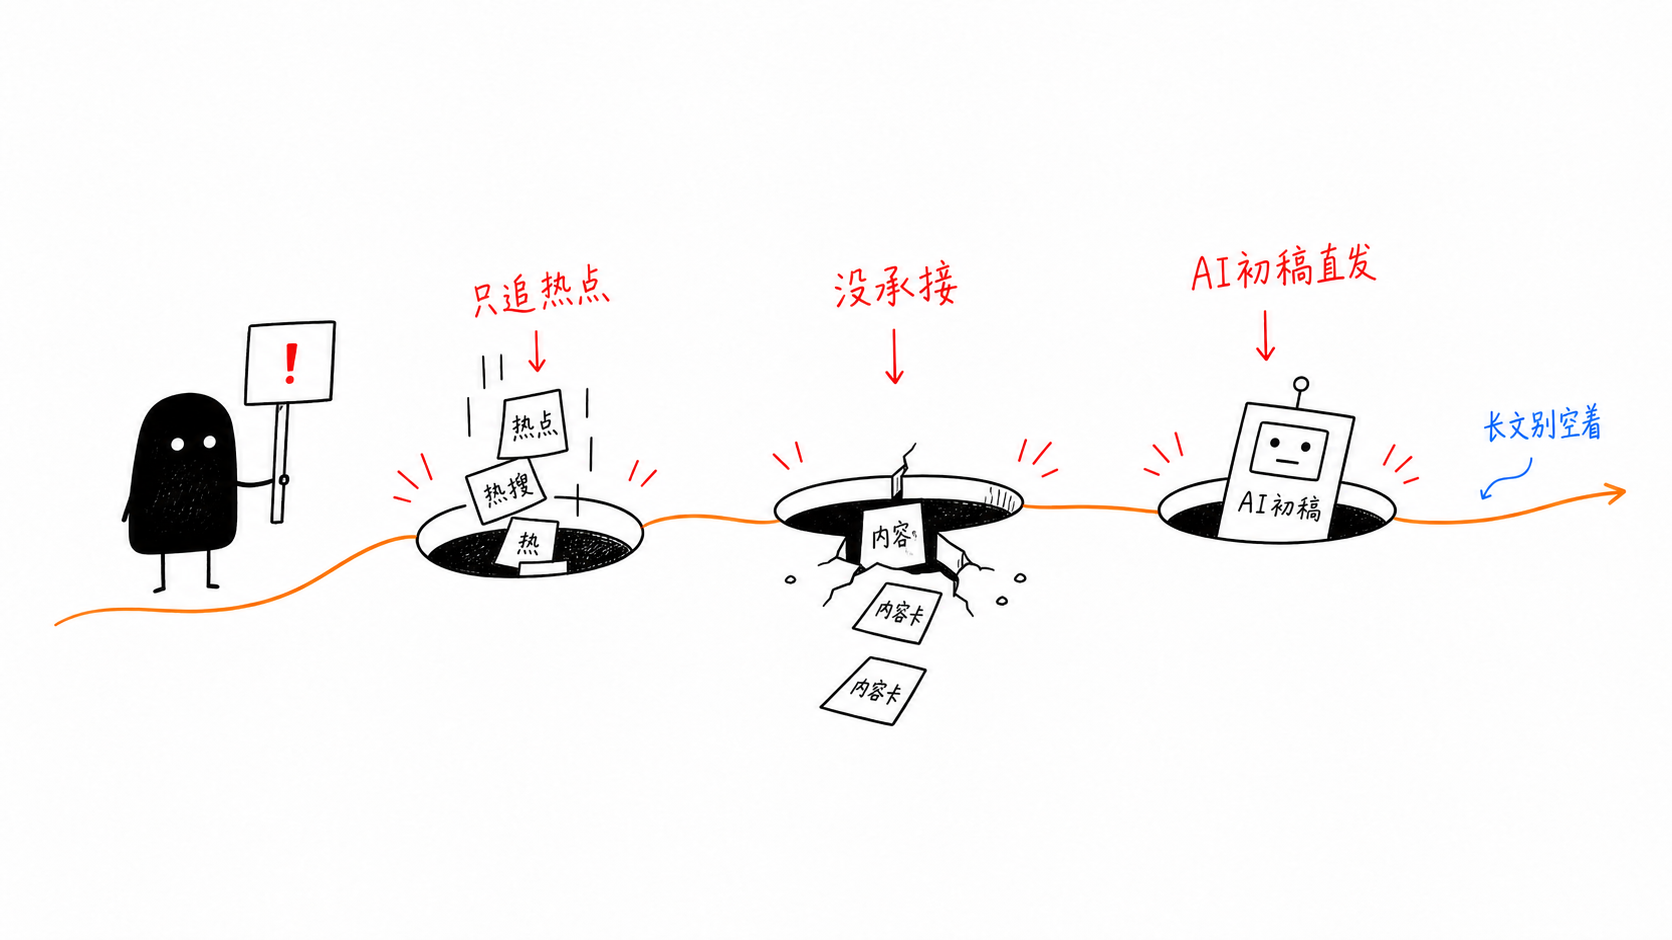
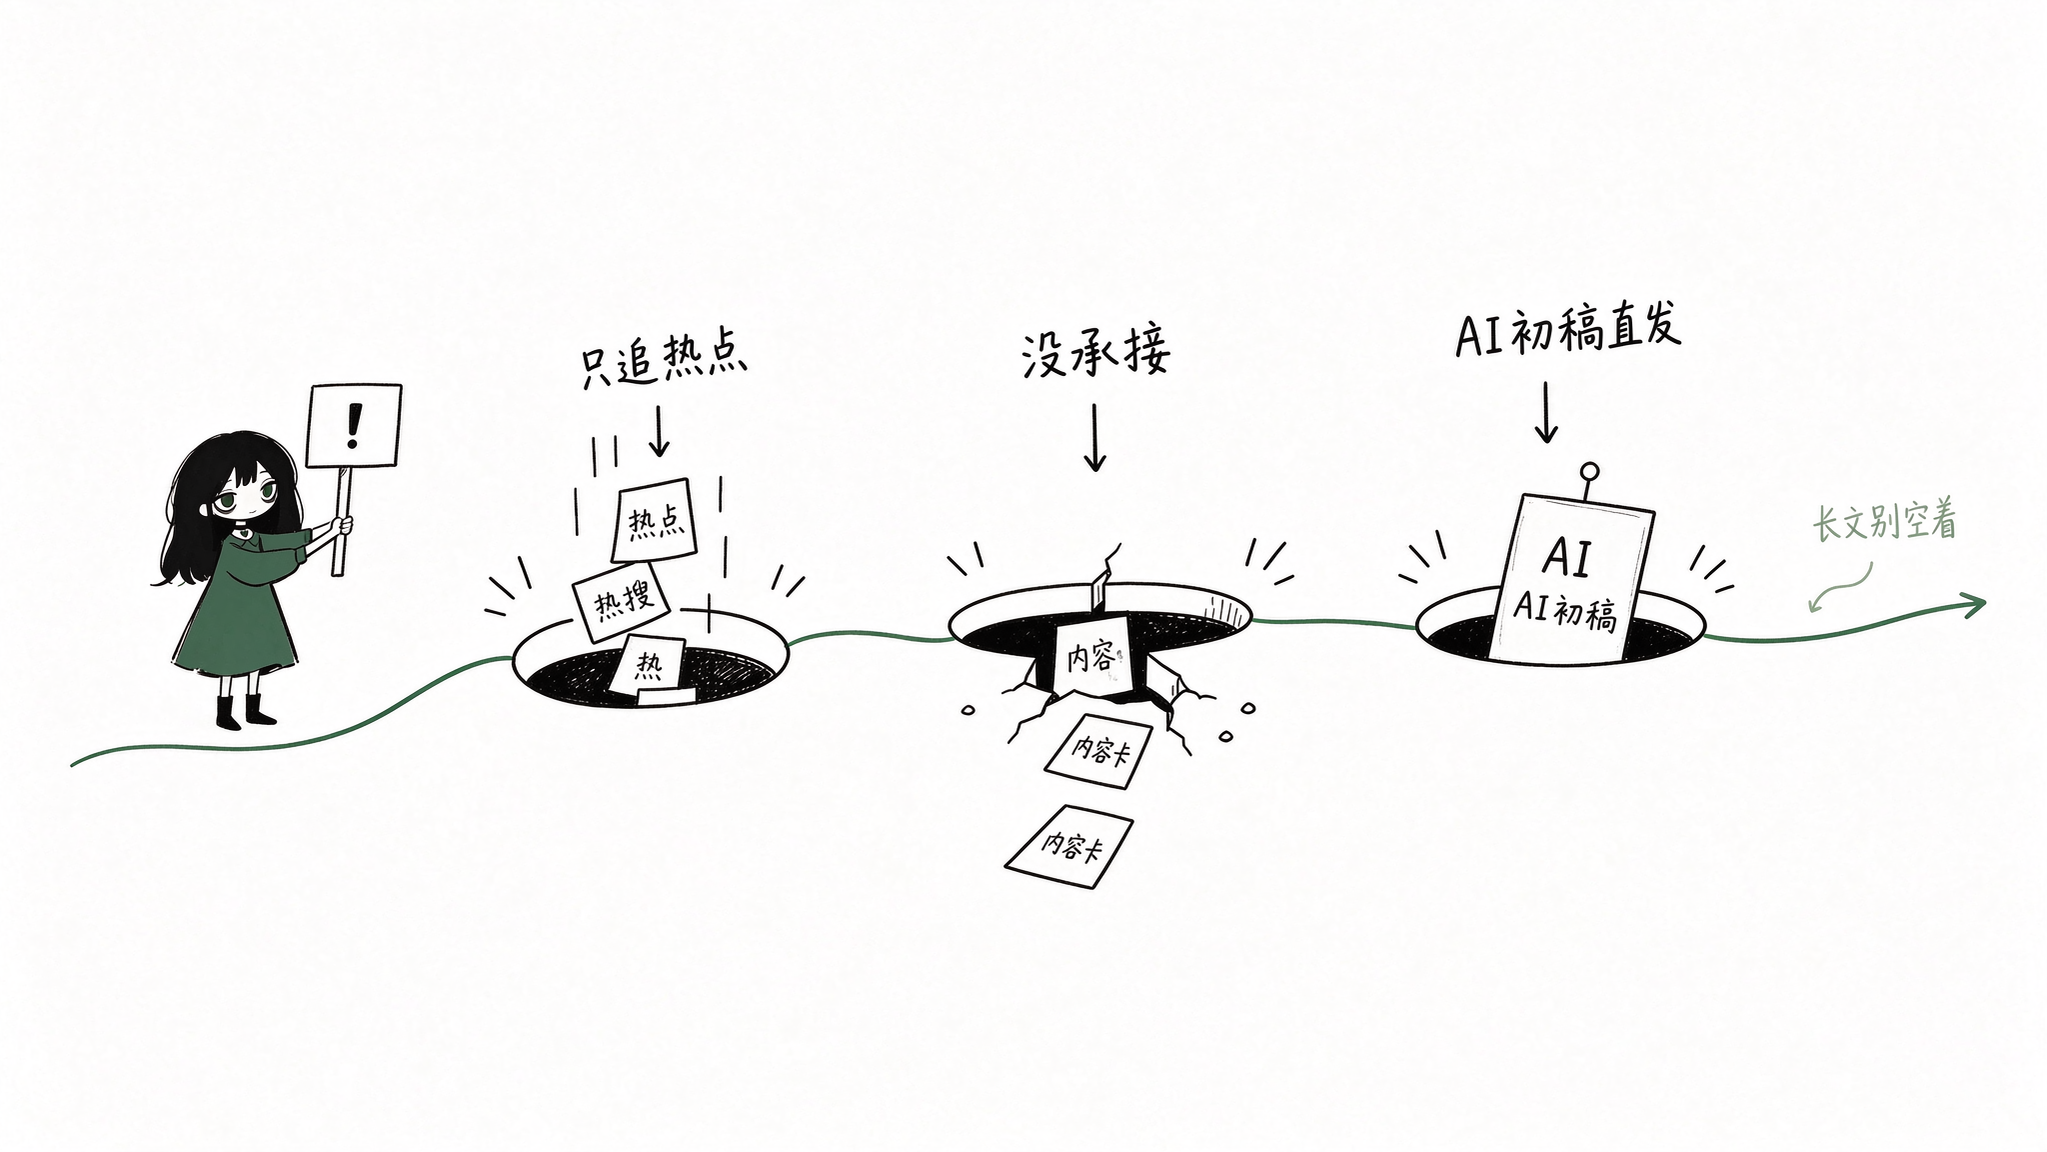
Swap all sample assets to Tuotuo renders; archive legacy Xiaohei examples outside the skill dir

diff --git a/NOTICE.md b/NOTICE.md
@@ -9,7 +9,7 @@ Original project: <https://github.com/helloianneo/ian-xiaohei-illustrations>
 - The skill structure and directory layout
 - The workflow: read the article → pick cognitive anchors → shot list → single-image generation → QA → delivery
 - The reference file system (`style-dna`, `composition-patterns`, `prompt-template`, `qa-checklist`) and most of its wording
-- The bundled example images in `examples/images/` and `tuotuo-illustrations/assets/examples/`, which were generated by Ian
+- The original bundled example images drawn with 小黑, now kept under `legacy/xiaohei-examples/` for reference only and excluded from the installable skill directory
 
 ## What has been changed in this derivative
 
@@ -19,7 +19,7 @@ Original project: <https://github.com/helloianneo/ian-xiaohei-illustrations>
 
 ## Attribution
 
-The character “小黑” is part of Ian's visual language for Chinese article illustrations and is not claimed by this derivative work. The example images retained in this repository remain Ian's work and are used only as style calibration material.
+The character “小黑” is part of Ian's visual language for Chinese article illustrations and is not claimed by this derivative work. The original example images kept under `legacy/xiaohei-examples/` remain Ian's work and are retained only for historical reference; the 托托 example images in this repository were newly generated for this derivative and follow the original skill's composition language.
 
 Please keep this attribution when redistributing or adapting this repository.
 

diff --git a/tuotuo-illustrations/references/qa-checklist.md b/tuotuo-illustrations/references/qa-checklist.md
@@ -35,7 +35,7 @@
 - 真实 UI 截图或科技感界面。
 - 中文错字严重或标注不可读。
 - 画面太死板，没有荒诞隐喻。
-- 和 `assets/examples/` 里的旧案例构图过于相似。
+- 和 `assets/examples/` 里的样例构图过于相似。
 
 ## 迭代方法
 
@@ -44,7 +44,7 @@
 - 太可爱：强调 flat two-color ink、deadpan、blank serious expression、not cute、not anime、no blush、no glossy eyes。
 - 太像小黑：把剪影式、可变形的画法去掉，改成有发型、有裙摆、有手脚的固定人形。
 - 太 PPT：去掉标题、边框、整齐网格和过多箭头，改成手绘场景。
-- 太像旧案例：保留核心意思，换掉主物件和托托的动作。
+- 太像样例：保留核心意思，换掉主物件和托托的动作。
 - 色彩跑偏：只留墨绿和黑，其余压缩成黑白灰阶手绘。
 - 文字错：优先局部编辑；错得多就重生成并减少标注数量。
 

diff --git a/tuotuo-illustrations/references/composition-patterns.md b/tuotuo-illustrations/references/composition-patterns.md
@@ -91,7 +91,7 @@
 
 不要默认打开或复刻 `assets/examples/`。这些图片只用于风格校准，例如线条密度、留白、颜色克制和角色气质。
 
-注意：`assets/examples/` 与 `examples/images/` 里的样例图都是原作者 Ian 用“小黑”画的旧样例，角色形象已经过时，只参考构图密度和留白，不要参考里面的角色。
+注意：`assets/examples/` 与 `examples/images/` 里的样例都是托托版，可以直接参考托托的形象、线条密度和留白，但不要照抄构图——同一主题也要换新隐喻。
 
 除非用户明确说“照这张 / 复刻这个构图 / 用这个案例改”，否则不要直接复用这些旧构图：
 
